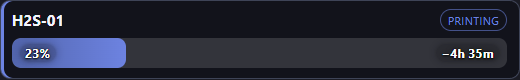
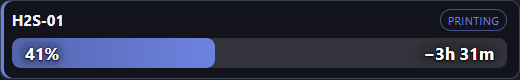
Updating the overlay docs based on recent changes. Added initial Mookraker info

Changed region(s): [[0.2154, 0.475, 0.4308, 0.85], [0.8, 0.6, 0.9538, 0.775], [0.0308, 0.55, 0.1231, 0.825]]

diff --git a/content/bridge/user/printers.md b/content/bridge/user/printers.md
@@ -1,0 +1,31 @@
+---
+title: Add a printer
+linkTitle: Printers
+weight: 2
+---
+
+Bridge connects to **host software / protocols**, not every brand name by itself. When you click **Add printer**, choose the path (cloud vs LAN), then pick the type that matches how the printer talks on the network.
+
+## Which type do I pick?
+
+| If you have… | Choose in Bridge | Notes |
+| --- | --- | --- |
+| Bambu Lab (X1, P1, A1, H2, …) | **Bambu Lab** | Prefer **Cloud via service** after connecting Bambu Lab under Services. Use LAN only for LAN Only / Developer Mode. |
+| OctoPrint / OctoPi | **OctoPrint** | Needs the OctoPrint URL and an Application API key. |
+| Mainsail, Fluidd, or other Moonraker UI | **Moonraker (Klipper)** | Same type for any Moonraker API on your LAN. |
+| Many DIY / Voron / RatRig / etc. Klipper printers | **Moonraker (Klipper)** | If you open Fluidd or Mainsail in a browser, use Moonraker. |
+| Snapmaker U1 / Artisan (Moonraker) | **Moonraker (Klipper)** | Use this when the machine exposes a Moonraker API on the network (typical for Klipper-based Snapmaker hosts). |
+| Other brands with OctoPrint installed | **OctoPrint** | Brand sticker does not matter — the host software does. |
+
+If your product is not listed, ask: *“What web UI or API do I already use on my network?”* That answer is usually the Bridge type.
+
+## Standalone connection details
+
+- **OctoPrint** — base URL (for example `http://192.168.1.40`) and API key from OctoPrint → Settings → API.
+- **Moonraker** — base URL (often `http://192.168.1.40:7125`) and API key from Moonraker when the Bridge PC is not a trusted client. Leave the key blank only if Moonraker trusts this machine.
+- **Bambu LAN** — serial, printer IP, and LAN access code.
+
+## Next
+
+- [Getting started](../getting-started/)
+- [Overlays in OBS](../overlays/)

diff --git a/content/bridge/user/getting-started.md b/content/bridge/user/getting-started.md
@@ -45,7 +45,7 @@ Open **Printers**.
 - If you already have printers, Bridge shows summary cards (connection, print state, progress, temps) with **Details** and **Add printer**.
 - If you have none (or you click **Add printer**), choose a path:
   - **Cloud via service** — requires a connected service. Pick a device from the account list; serial is filled in for you. Each Bambu serial can only be added once.
-  - **Standalone / LAN** — connect directly (Bambu LAN needs serial, IP, and access code; OctoPrint needs base URL and API key).
+  - **Standalone / LAN** — connect directly (Bambu LAN, OctoPrint, or Moonraker / Klipper). See [Which type do I pick?](../printers/) if you are unsure (for example Snapmaker U1 → Moonraker).
 
 After save, Bridge returns to the **printers list**. Open **Details** for status, **Remove printer**, and ready-made **overlay / Streamer.bot** connection info (printer id, API, WebSocket, Overview and Compact URLs).
 
@@ -70,5 +70,5 @@ Every main page uses the same top nav: **Dashboard**, **Services**, **Printers**
 Bridge is still early:
 
 - Built-in Bambu Lab cloud discovery works for listing / adding printers from your account.
-- Live Bambu MQTT and OctoPrint REST polling are implemented for status/events; expect more polish across releases.
+- Live Bambu MQTT, OctoPrint REST polling, and Moonraker REST polling are implemented for status/events; expect more polish across releases.
 - Thumbnail retrieval may return “not implemented” until a plugin supports it.

diff --git a/content/bridge/user/overlays/catalog.md b/content/bridge/user/overlays/catalog.md
@@ -12,8 +12,8 @@ Use a **separate OBS Browser Source per printer**, each with its own `printer=` 
 
 | Overlay | Browser Source URL | Recommended size | What it shows |
 | --- | --- | --- | --- |
-| **Overview** | `http://127.0.0.1:29067/bridge/overview/` | **520 × 280** | Name, connection, print state, job, progress bar, elapsed / remaining / est. total, temps |
-| **Compact** | `http://127.0.0.1:29067/bridge/compact/` | **480 × 100** | Name, print-state badge, tall progress bar with % and remaining time on the bar |
+| **Overview** | `http://127.0.0.1:29067/bridge/overview/` | **520 × 270** | Name, connection, print state, job, layers, progress bar with centered %, elapsed / remaining / est. total, temps |
+| **Compact** | `http://127.0.0.1:29067/bridge/compact/` | **520 × 100** | Name, print-state badge, progress bar with % and remaining time on the bar |
 | **Status** | `http://127.0.0.1:29067/bridge/status/` | **420 × 140** | Name, connection, print state (HTTP poll) |
 | **Progress** | `http://127.0.0.1:29067/bridge/progress/` | **480 × 160** | Job name, progress bar, remaining (HTTP poll) |
 

diff --git a/content/bridge/user/concepts.md b/content/bridge/user/concepts.md
@@ -19,7 +19,7 @@ Bridge is organized around three kinds of plugins:
 | Kind | Role | Built-in examples |
 | --- | --- | --- |
 | **Service** | Account / hub connection (auth + device discovery) | Bambu Lab cloud (`bambu_cloud`) |
-| **Printer** | One device session (status + events) | Bambu (`bambu`), OctoPrint (`octoprint`) |
+| **Printer** | One device session (status + events) | Bambu (`bambu`), OctoPrint (`octoprint`), Moonraker (`moonraker`) |
 | **Integration** | Outbound consumer of Bridge events | Streamer.bot (`streamerbot`) |
 
 You typically connect a **service** once, then add one or more **printers** from that account — or add standalone LAN printers without a service. **Streamer.bot** is a single global integration that receives events from every printer.

diff --git a/content/bridge/user/_index.md b/content/bridge/user/_index.md
@@ -11,6 +11,7 @@ Install and operate Kinkajou Bridge on your PC — services, printers, optional 
 {{< cards >}}
   {{< card link="getting-started/" title="Getting started" icon="sparkles" >}}
   {{< card link="concepts/" title="Concepts" icon="light-bulb" >}}
+  {{< card link="printers/" title="Add a printer" icon="cube" >}}
   {{< card link="streamerbot/" title="Connect Streamer.bot" icon="play" >}}
   {{< card link="overlays/" title="Overlays in OBS" icon="desktop-computer" >}}
 {{< /cards >}}

diff --git a/content/bridge/streamerbot-actions/actions-and-args.md b/content/bridge/streamerbot-actions/actions-and-args.md
@@ -32,7 +32,7 @@ Bridge always passes:
 | --- | --- |
 | `printer_id` | Bridge printer instance id |
 | `printer_name` | Display name from Bridge |
-| `plugin_id` | Printer plugin id (for example `bambu`, `octoprint`) |
+| `plugin_id` | Printer plugin id (for example `bambu`, `octoprint`, `moonraker`) |
 | `event_type` | Same string as the action suffix (for example `print.started`) |
 
 Plus any fields from the event **payload** when present, which may include:

diff --git a/content/bridge/bridge-developer/plugins.md b/content/bridge/bridge-developer/plugins.md
@@ -56,7 +56,7 @@ Ship a Python package that registers entry points, for example in `pyproject.tom
 myprinter = "my_package.plugin:MyPrinterPlugin"
 ```
 
-Built-ins today: `bambu_cloud` (service), `bambu` and `octoprint` (printers), `streamerbot` (integration).
+Built-ins today: `bambu_cloud` (service), `bambu`, `octoprint`, and `moonraker` (printers), `streamerbot` (integration).
 
 ## Events
 

diff --git a/content/bridge/user/overlays/setup-obs.md b/content/bridge/user/overlays/setup-obs.md
@@ -38,8 +38,8 @@ These steps assume **OBS Studio**. Other apps with a Browser Source (Streamlabs 
 
    | Overlay | Start with |
    | --- | --- |
-   | Overview | **520 × 280** |
-   | Compact | **480 × 100** |
+   | Overview | **520 × 270** |
+   | Compact | **520 × 100** |
    | Status | **420 × 140** |
    | Progress | **480 × 160** |
 
